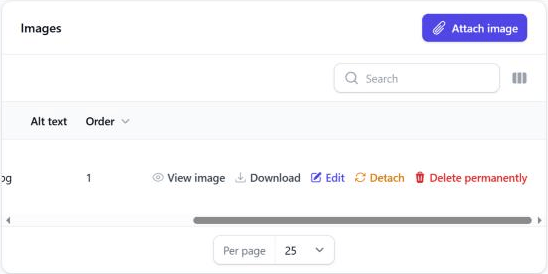
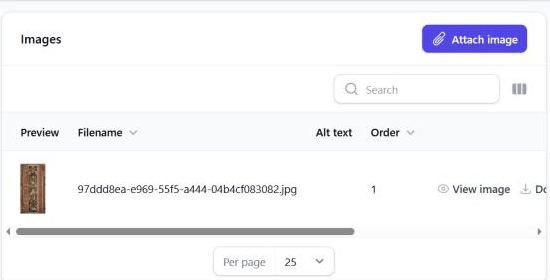
docs: Just the Docs theme, Artists and Dynasties in the user manual (#2728)
The docs site was rendered through a placeholder layout
(docs/_layouts/default.html): `remote_theme` was set without the
jekyll-remote-theme plugin, so the just-the-docs gem in the Gemfile was
never used. The placeholder had no sidebar or search, and its breadcrumb
built a parent's address from its title, which broke every parent link
whose permalink didn't match (/understanding-the-inventory/,
/master-manual/…).

- _config.yml: `theme: just-the-docs`; callouts for {: .note } and
  {: .important }; the logo and favicon entries dropped (the files never
  existed).
- The placeholder layout is removed: the theme gives the sidebar from the
  pages' front matter, the search and breadcrumbs that look the parent up.
- The user manual's sections are back at /user-manual/master/ and
  /user-manual/sites/.
- User manual: the Artists and Dynasties pages with their screenshots, and
  the item images and pictures with their previews, from the OVH panel.
- docs/README.md (and its generated copy) explains the theme.

diff --git a/docs/user-manual/master/reference-data.md b/docs/user-manual/master/reference-data.md
@@ -20,24 +20,45 @@ Records that many items and collections share: tags, artists, dynasties, the glo
 
 ![The Tags list]({{ '/user-manual/images/tags.png' | relative_url }})
 
-Tags drive the search facets and filters of the sites. Each family uses its own categories: the galleries use their own facet tags, Explore its *filter* tags, the Books site its *subject*, *theme* and *audience* tags. The [site family manuals]({{ '/site-families/' | relative_url }}) say which.
+Tags drive the search facets and filters of the sites. Each family uses its own categories: the galleries use their own facet tags, Explore its *filter* tags, the Books site its *subject*, *theme* and *audience* tags. The [site family manuals]({{ '/user-manual/sites/' | relative_url }}) say which.
 
 - To tag an item, open the item's **Content** tab, then **Tags → Attach**. To tag many items, select them in the **Items** list and use the bulk action **Attach tag**.
 - The **keyword line** an item sheet prints is a text in the item's translation, not the tags. Changing the tags doesn't change the line ([Texts and links stay apart]({{ '/user-manual/master/items' | relative_url }}#texts-and-links-stay-apart)).
 
 ## Artists
 
-**Shared Data → Artists** lists the artists. An artist has a **name**, a **period of activity**, places and dates of **birth** and **death**, and the **Items** linked to it.
+**Shared Data → Artists** lists the artists, with the number of items linked to each. Type in **Search** to find one by name.
+
+![The Artists list, searched for Bernini]({{ '/user-manual/images/artists.png' | relative_url }})
+
+An artist has a **name**, a **period of activity**, and the place and date of **birth** and of **death**. Its page lists the **Items** linked to it.
+
+![An artist's page]({{ '/user-manual/images/artist-view.png' | relative_url }})
+
+![The items linked to an artist]({{ '/user-manual/images/artist-items.png' | relative_url }})
 
 - **Edit** corrects the artist's record. The change reaches every item linked to it, on the pages that use the links (artist indexes, filters).
-- The artist **lines** printed on an item sheet are texts in each item's translation ([Artist section]({{ '/user-manual/master/items' | relative_url }}#which-field-is-which-text)). Correcting the artist record doesn't rewrite them, and they don't rename the artist.
-- To link an item to an artist, use the item's **Origin** tab, or the artist's **Items** tab. Linking is attach only: an artist is never created from a text.
+- **Attach** on the **Items** tab links an existing item to the artist; **Detach** removes the link and keeps both records. The item's **Origin** tab does the same from the item's side.
+- The artist **lines** printed on an item sheet are texts in each item's translation ([Artist section]({{ '/user-manual/master/items' | relative_url }}#which-field-is-which-text)). Correcting the artist record doesn't rewrite them, and editing a line doesn't rename the artist.
+- Many artist records came from legacy lines that are not a single name ("(1680–1758)", "workshop of…"). Clean them up here, then check the items linked to them. An artist is never created from a text by the inventory itself.
 
 ## Dynasties
 
-**Shared Data → Dynasties** lists the dynasties. A dynasty has its years **from** and **to**, in the Common Era (AD) and the Hijri calendar (AH); **Translations** per language with its **name**, **Also known as**, the **date descriptions** (AD and AH) as written, its **area**, its **history** and its credits; and the **Items** linked to it.
+**Shared Data → Dynasties** lists the dynasties, with their years, their number of translations and of linked items.
 
-Discover Islamic Art's dynasty browser shows every dynasty, with its texts and its items. The dynasty **line** on an item sheet is the item translation's own text, as for artists.
+![The Dynasties list, searched for Mamluk]({{ '/user-manual/images/dynasties.png' | relative_url }})
+
+A dynasty has its years **from** and **to**, in the Common Era (**AD**) and the Hijri calendar (**AH**). Its page has two tabs:
+
+![A dynasty's page]({{ '/user-manual/images/dynasty-view.png' | relative_url }})
+
+- **Translations**: one per language, with the dynasty's **name**, **Also known as**, the **date descriptions** (AD and AH) as written, its **area**, its **history**, and the authors of its text (author, text copy editor, translator, translation copy editor). **New dynasty translation** adds a language; **Edit** changes one.
+
+  ![The translations of the Mamluks]({{ '/user-manual/images/dynasty-translations.png' | relative_url }})
+
+- **Items**: the items linked to the dynasty. **Attach** and **Detach** work as for artists.
+
+Discover Islamic Art's dynasty browser shows every dynasty, with its texts and its items ([Discover Islamic Art]({{ '/user-manual/sites/islamicart' | relative_url }})). The dynasty **line** on an item sheet is the item translation's own text, as for artists.
 
 ## Glossary
 

diff --git a/docs/user-manual/index.md b/docs/user-manual/index.md
@@ -16,8 +16,8 @@ Every website and mini-site already exists: their content came from the legacy d
 
 | Manual | Read it when |
 |---|---|
-| [Master manual]({{ '/master-manual/' | relative_url }}) | Always first. It covers everything common to every site: signing in, finding records, items and their texts, images, collections and placements, partners, reference data, legacy links, and what happens after you save. |
-| [Site families]({{ '/site-families/' | relative_url }}) | You maintain one family of sites. Each page adds only what is specific to that family: which panel records make up the site, which texts it prints, and which settings live outside the panel. |
+| [Master manual]({{ '/user-manual/master/' | relative_url }}) | Always first. It covers everything common to every site: signing in, finding records, items and their texts, images, collections and placements, partners, reference data, legacy links, and what happens after you save. |
+| [Site families]({{ '/user-manual/sites/' | relative_url }}) | You maintain one family of sites. Each page adds only what is specific to that family: which panel records make up the site, which texts it prints, and which settings live outside the panel. |
 
 ## Three rules to keep in mind
 
@@ -27,4 +27,4 @@ Every website and mini-site already exists: their content came from the legacy d
 
 ## The examples
 
-The screenshots come from a test copy of the inventory, filled from a full import of the legacy databases. They use real records, such as the *Aleppo Room* of the Museum für Islamische Kunst or the *Water in Islam* exhibition, so that what you see matches what you will find in the panel. Your panel may show more or fewer menu entries, depending on your role.
+The screenshots come from test copies of the inventory, filled from a full import of the legacy databases. They use real records, such as the *Aleppo Room* of the Museum für Islamische Kunst or the *Water in Islam* exhibition, so that what you see matches what you will find in the panel. Your panel may show more or fewer menu entries, depending on your role.

diff --git a/docs/user-manual/master/items.md b/docs/user-manual/master/items.md
@@ -58,7 +58,7 @@ Everything a site prints about an item, apart from its pictures and its links, i
 The **context** says which site family the text was written for. The *Aleppo Room* has two English texts: one in the *Discover Islamic Art* context and one in the *Explore Islamic Art Collections* context.
 
 - A site prints the translation in the context of the item's **project**. A gallery that borrows an Islamic Art object still prints its *Discover Islamic Art* text.
-- Some sites also read a second context. Explore and Travels, for example, read their own context for the texts written for them. The [site family manuals]({{ '/site-families/' | relative_url }}) say which.
+- Some sites also read a second context. Explore and Travels, for example, read their own context for the texts written for them. The [site family manuals]({{ '/user-manual/sites/' | relative_url }}) say which.
 - The **★** column marks the translation in the default language and the default context. Some items have none: their texts are all in a site context. **Create default translation** creates one. You don't need it to maintain a site.
 
 So **edit the translation in the context of the site you are maintaining**, and leave the other contexts' texts to their own sites.
@@ -142,6 +142,8 @@ The **Contributors** section has two fields per role. The link (**Author**, **Tr
 ## Pictures
 
 A picture item is a child of its object or monument. The **Pictures** table on the parent's **Content** tab lists them, in their **Order**. The item sheet shows the pictures in that order, each with the image attached to that picture item.
+
+![The Pictures table of the Aleppo Room, with their previews]({{ '/user-manual/images/item-pictures.png' | relative_url }})
 
 To add a picture to an item sheet:
 

diff --git a/docs/user-manual/master/publishing-cycle.md b/docs/user-manual/master/publishing-cycle.md
@@ -23,7 +23,7 @@ panel (you)  ──save──▶  inventory
                         websites              rebuilt and deployed
 ```
 
-1. **Export.** One exporter per site family reads the inventory and writes the site's data package: its items, collections, partners, texts and image addresses. The [site family manuals]({{ '/site-families/' | relative_url }}) explain what each exporter reads.
+1. **Export.** One exporter per site family reads the inventory and writes the site's data package: its items, collections, partners, texts and image addresses. The [site family manuals]({{ '/user-manual/sites/' | relative_url }}) explain what each exporter reads.
 2. **Publish.** The team reviews the differences and publishes the new package versions.
 3. **Propagate.** Each website receives a pull request that moves it to the new version. When it is merged, the site is rebuilt and deployed.
 

diff --git a/docs/user-manual/master/images.md b/docs/user-manual/master/images.md
@@ -46,7 +46,7 @@ On the pool's list, **Edit** lets you fill in, before you attach it, a **Comment
 4. Optionally type an **Alt text**: a short description for readers who can't see the picture.
 5. Select **Submit**. The image is attached and leaves the pool.
 
-![The Images table of an item, with its row actions]({{ '/user-manual/images/item-images.png' | relative_url }})
+![The Images table of an item: the preview, the file name, and the row actions (View image, Download, Edit, Detach, Delete permanently) further right]({{ '/user-manual/images/item-images.png' | relative_url }})
 
 On an item sheet, the pictures are the item's **picture items**, each with its own image ([Pictures]({{ '/user-manual/master/items' | relative_url }}#pictures)). So attach a new picture to a new picture item, not to the object itself.
 

diff --git a/docs/user-manual/sites/index.md b/docs/user-manual/sites/index.md
@@ -4,12 +4,12 @@ title: Site families
 parent: User Manual
 nav_order: 2
 has_children: true
-permalink: /site-families/
+permalink: /user-manual/sites/
 ---
 
 # Site families
 
-Each website is built by one **exporter**, and sites built by the same exporter form a **family**. The pages below add only what is specific to each family. Read the [master manual]({{ '/master-manual/' | relative_url }}) first.
+Each website is built by one **exporter**, and sites built by the same exporter form a **family**. The pages below add only what is specific to each family. Read the [master manual]({{ '/user-manual/master/' | relative_url }}) first.
 
 | Family | Sites | Built from |
 |---|---|---|

diff --git a/docs/user-manual/master/collections.md b/docs/user-manual/master/collections.md
@@ -78,7 +78,7 @@ The **Publishing** section of the collection's form holds the only site settings
 | **Featured** | A gallery among the featured galleries. |
 | **Published** | A gallery's live date. |
 
-Not every site reads every flag. The [site family manuals]({{ '/site-families/' | relative_url }}) say which flag matters where. A flag that a site doesn't read changes nothing on it.
+Not every site reads every flag. The [site family manuals]({{ '/user-manual/sites/' | relative_url }}) say which flag matters where. A flag that a site doesn't read changes nothing on it.
 
 ## Placements: the items of a collection
 

diff --git a/docs/README.md b/docs/README.md
@@ -16,6 +16,10 @@ Generated references remain available for detailed lookup:
 - `_model/` contains generated Laravel model documentation.
 - `_docs/` contains generated commit-history documentation.
 
+## Theme and navigation
+
+The site uses the [Just the Docs](https://just-the-docs.com) theme (`theme: just-the-docs` in `_config.yml`). The sidebar, the breadcrumbs and the search come from each page's front matter: `title`, `parent`, `grand_parent`, `nav_order` and `has_children`. A child page names its parent by the parent's `title`.
+
 ## Manual content
 
 | Directory/File | Purpose |

diff --git a/docs/development/documentation-site.md b/docs/development/documentation-site.md
@@ -22,6 +22,10 @@ Generated references remain available for detailed lookup:
 - `_model/` contains generated Laravel model documentation.
 - `_docs/` contains generated commit-history documentation.
 
+## Theme and navigation
+
+The site uses the [Just the Docs](https://just-the-docs.com) theme (`theme: just-the-docs` in `_config.yml`). The sidebar, the breadcrumbs and the search come from each page's front matter: `title`, `parent`, `grand_parent`, `nav_order` and `has_children`. A child page names its parent by the parent's `title`.
+
 ## Manual content
 
 | Directory/File | Purpose |

diff --git a/docs/user-manual/master/index.md b/docs/user-manual/master/index.md
@@ -4,12 +4,12 @@ title: Master manual
 parent: User Manual
 nav_order: 1
 has_children: true
-permalink: /master-manual/
+permalink: /user-manual/master/
 ---
 
 # Master manual
 
-This manual covers what is common to every website. Read it before the manual of your [site family]({{ '/site-families/' | relative_url }}).
+This manual covers what is common to every website. Read it before the manual of your [site family]({{ '/user-manual/sites/' | relative_url }}).
 
 | Chapter | What it covers |
 |---|---|
